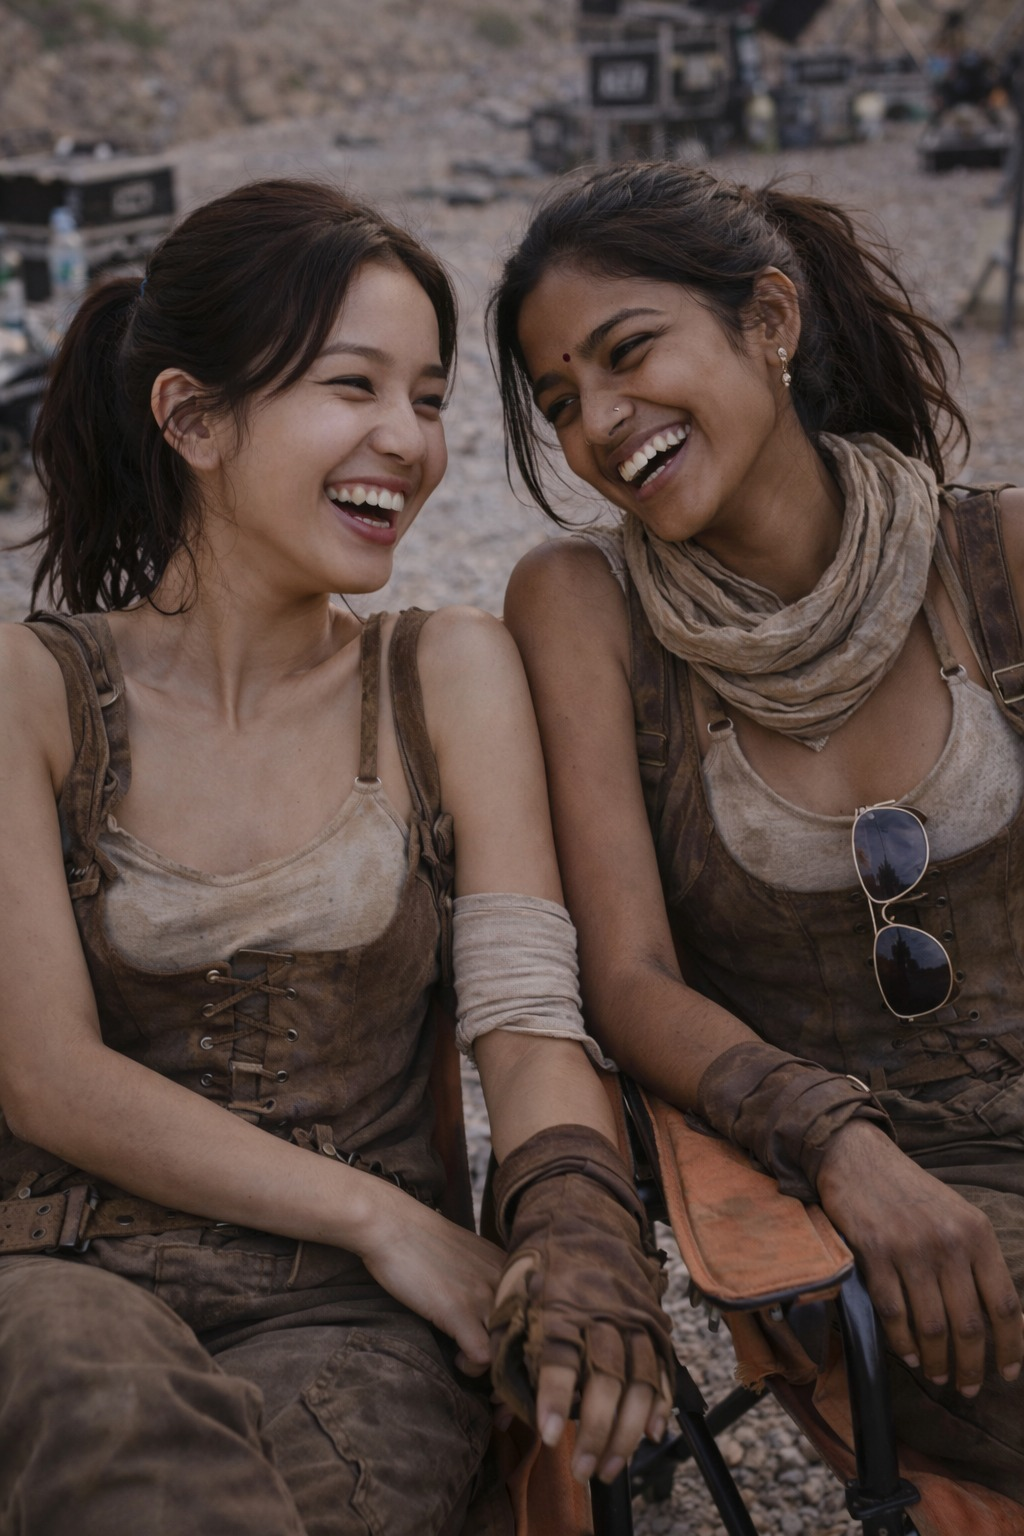
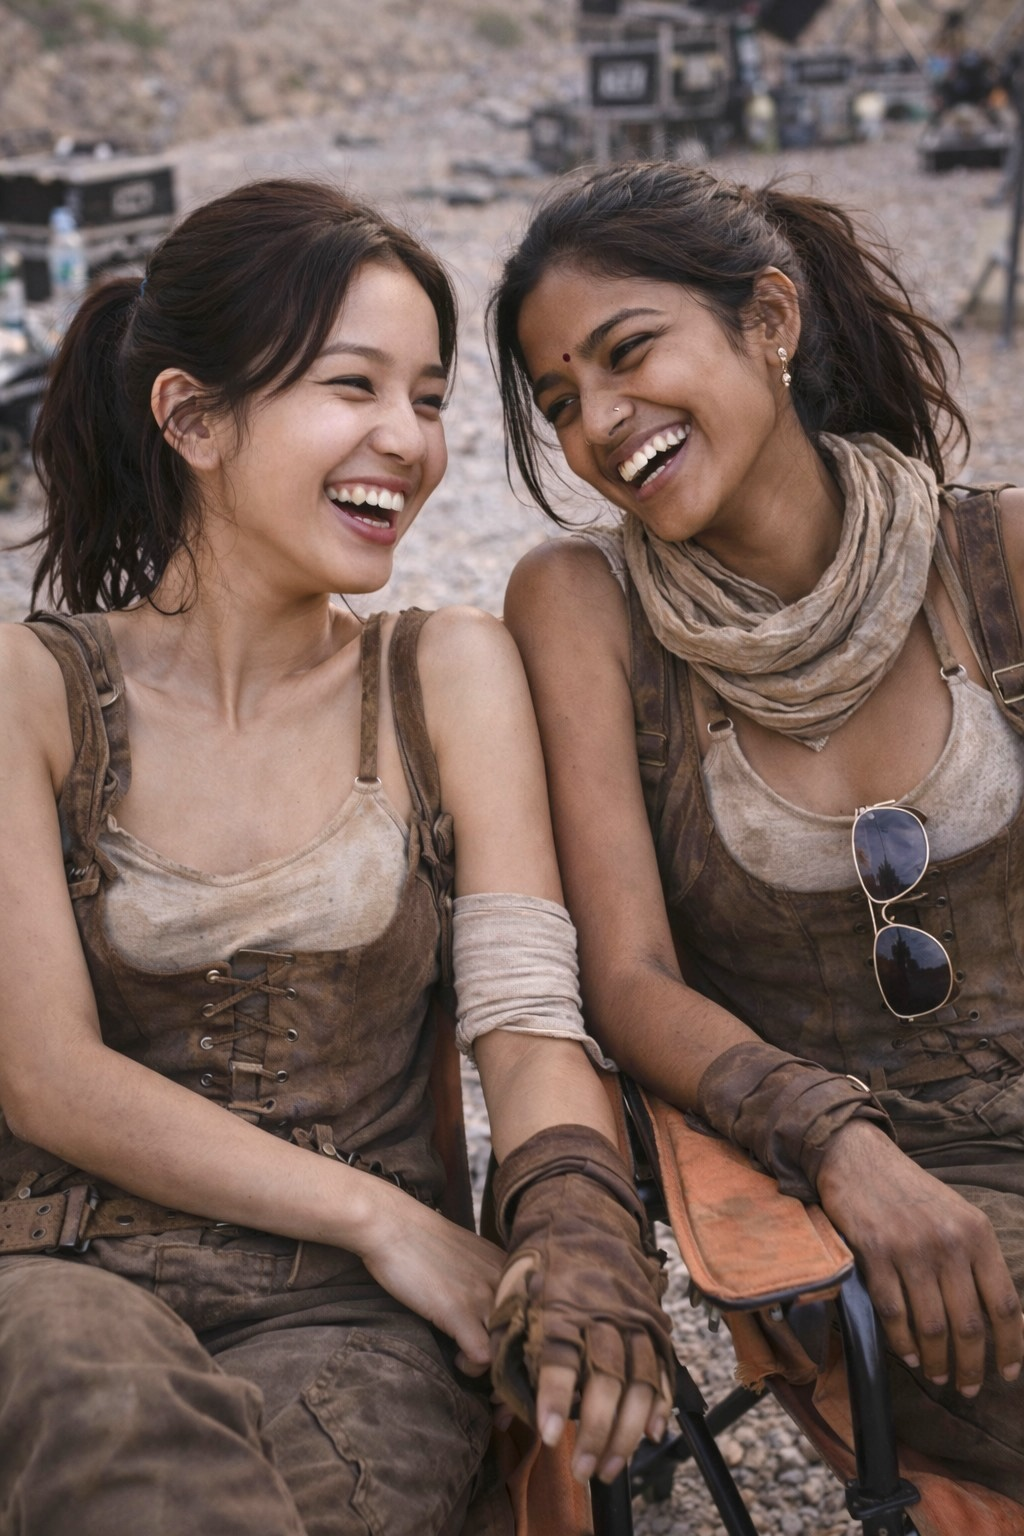
Brightened image

diff --git a/src/App.tsx b/src/App.tsx
@@ -643,14 +643,21 @@ function SystemProof() {
           </h2>
         </div>
 
-        <div className="overflow-hidden rounded-[24px] border border-white/10 bg-black/30 shadow-2xl">
+        <div className="overflow-hidden">
           <img
             src="/creative/storyteller-ui.jpg"
             alt="StoryTeller interface"
             className="w-full object-cover"
           />
         </div>
-      </section>
+        <div className="overflow-hidden">
+          <img
+            src="/creative/storyteller-ui.jpg"
+            alt="StoryTeller interface"
+            className="w-full object-cover"
+          />
+        </div>
+     </section>
     </FadeInSection>
   );
 }
